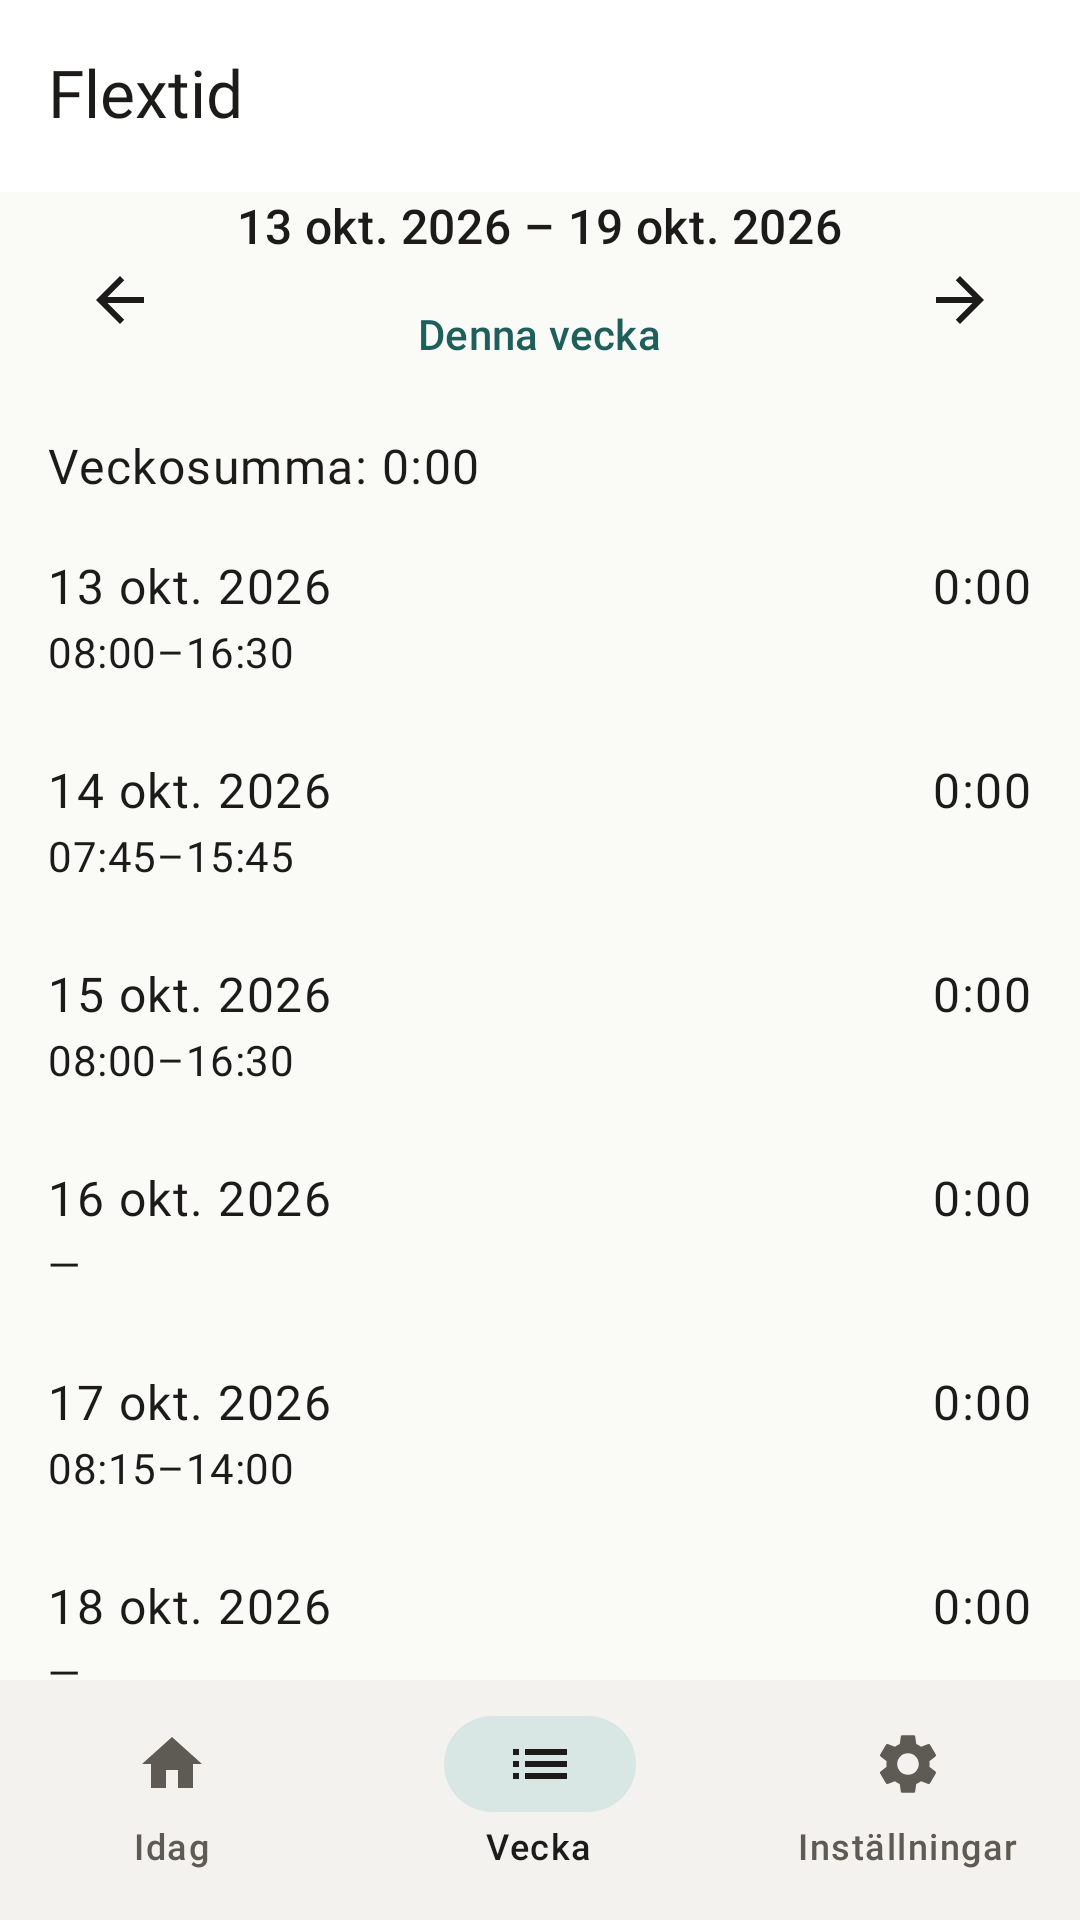
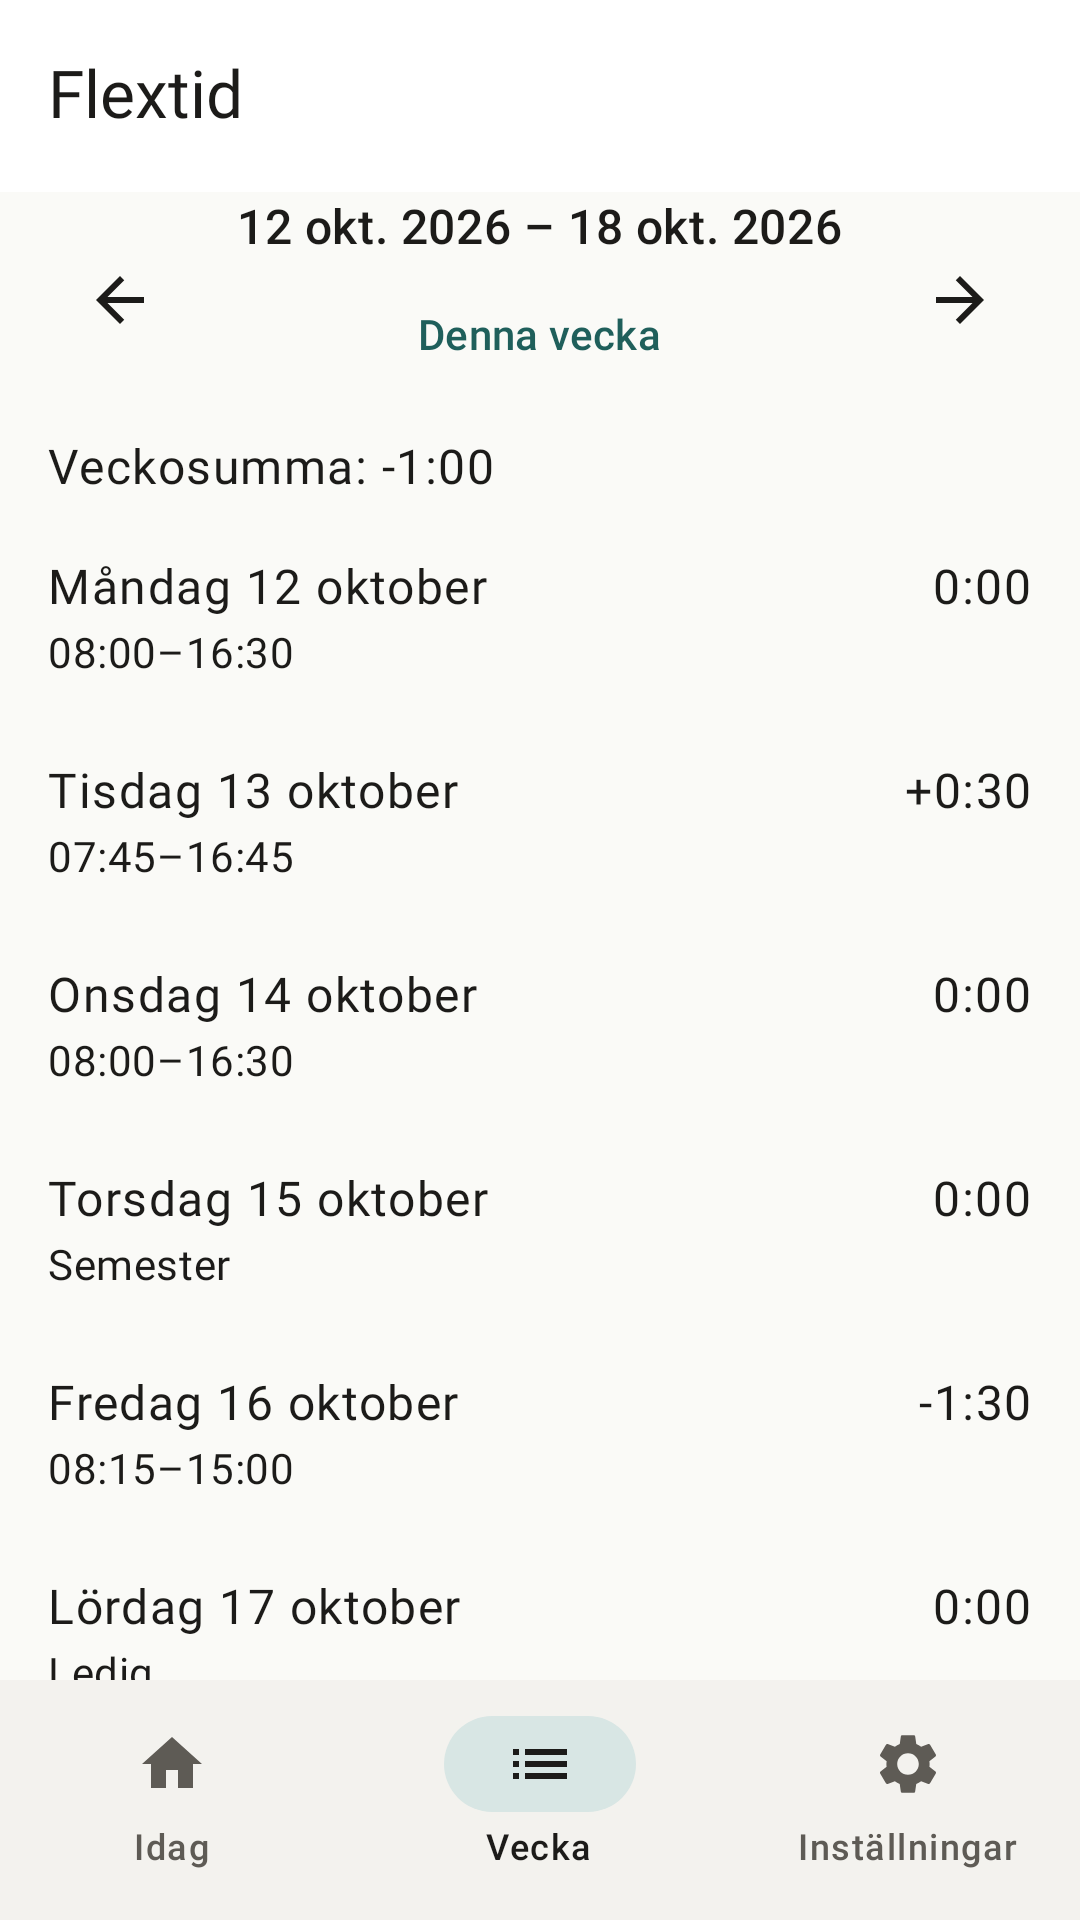
Flextid: butikstexter (#454)
* Flextid: butikstexter med gå hem-tid, helgdagar och semester; engelska namnet Flextime i policyn

Claude-Session: https://claude.ai/code/session_01CF85d1bdEzex3APXLfSv3H

* Flextid: funktionsgrafik med rubrik och tre punkter

Claude-Session: https://claude.ai/code/session_01CF85d1bdEzex3APXLfSv3H

* Omgenererade butiksskärmbilder för flextid (workflow Skärmbilder)

* Flextid: veckovyn visar veckodag, och skärmbilden visar en riktig vecka med utfall

Claude-Session: https://claude.ai/code/session_01CF85d1bdEzex3APXLfSv3H

* Omgenererade butiksskärmbilder för flextid (workflow Skärmbilder)

* Flextid: veckovyn visar Semester, Ledig, Sjuk eller Helgdag på dagar utan tider

Claude-Session: https://claude.ai/code/session_01CF85d1bdEzex3APXLfSv3H

* Omgenererade butiksskärmbilder för flextid (workflow Skärmbilder)

---------

diff --git a/flextid/src/test/kotlin/se/tmconnect/flextid/butik/ButikSkarmbilderTest.kt b/flextid/src/test/kotlin/se/tmconnect/flextid/butik/ButikSkarmbilderTest.kt
@@ -56,6 +56,9 @@ import se.tmconnect.flextid.regler.SemesterAr
 import se.tmconnect.flextid.regler.SemesterSammanfattning
 import se.tmconnect.flextid.data.Installning
 import se.tmconnect.flextid.regler.DagTyp
+import se.tmconnect.flextid.regler.dagensUtfall
+import se.tmconnect.flextid.regler.arbetadeMinuter
+import se.tmconnect.flextid.regler.ARBETSDAGAR_MANDAG_FREDAG
 import se.tmconnect.flextid.ui.DagFormularTillstand
 import se.tmconnect.flextid.ui.FlextidFlik
 import se.tmconnect.flextid.ui.IdagInnehall
@@ -71,7 +74,7 @@ import java.time.YearMonth
 
 private val noOp: () -> Unit = {}
 private val idag = LocalDate.of(2026, 10, 15)
-private val veckaAnkar = LocalDate.of(2026, 10, 13)
+private val veckaAnkar = LocalDate.of(2026, 10, 12)
 
 class ButikRoboActivity : ComponentActivity()
 
@@ -191,15 +194,23 @@ abstract class ButikSkarmbilderBas {
                     Column(modifier = Modifier.padding(horizontal = 64.dp)) {
                         Text(
                             text = stringResource(R.string.app_name),
-                            style = MaterialTheme.typography.displaySmall,
+                            style = MaterialTheme.typography.displayMedium,
                             color = Color.White,
                         )
                         Text(
-                            text = stringResource(R.string.pro_forklaring),
-                            style = MaterialTheme.typography.titleMedium,
-                            color = Color.White.copy(alpha = 0.92f),
-                            modifier = Modifier.padding(top = 12.dp),
+                            text = stringResource(R.string.butik_rubrik),
+                            style = MaterialTheme.typography.headlineSmall,
+                            color = Color.White,
+                            modifier = Modifier.padding(top = 8.dp, bottom = 24.dp),
                         )
+                        listOf(R.string.butik_punkt_1, R.string.butik_punkt_2, R.string.butik_punkt_3).forEach { punkt ->
+                            Text(
+                                text = "✓  " + stringResource(punkt),
+                                style = MaterialTheme.typography.titleLarge,
+                                color = Color.White.copy(alpha = 0.95f),
+                                modifier = Modifier.padding(vertical = 4.dp),
+                            )
+                        }
                     }
                 }
             }
@@ -397,13 +408,13 @@ class ButikSkarmbilderSvTest : ButikSkarmbilderBas() {
 
     override fun exempelVeckaRader(): List<VeckaDagRad> =
         listOf(
-            rad(LocalDate.of(2026, 10, 13), "08:00", "16:30", 30),
-            rad(LocalDate.of(2026, 10, 14), "07:45", "15:45", 30),
-            rad(LocalDate.of(2026, 10, 15), "08:00", "16:30", 30),
-            rad(LocalDate.of(2026, 10, 16), null, null, 0, typ = DagTyp.LEDIG),
-            rad(LocalDate.of(2026, 10, 17), "08:15", "14:00", 15),
+            rad(LocalDate.of(2026, 10, 12), "08:00", "16:30", 30),
+            rad(LocalDate.of(2026, 10, 13), "07:45", "16:45", 30),
+            rad(LocalDate.of(2026, 10, 14), "08:00", "16:30", 30),
+            rad(LocalDate.of(2026, 10, 15), null, null, 0, typ = DagTyp.SEMESTER),
+            rad(LocalDate.of(2026, 10, 16), "08:15", "15:00", 15),
+            rad(LocalDate.of(2026, 10, 17), null, null, 0, typ = DagTyp.LEDIG),
             rad(LocalDate.of(2026, 10, 18), null, null, 0, typ = DagTyp.LEDIG),
-            rad(LocalDate.of(2026, 10, 19), null, null, 0, typ = DagTyp.LEDIG),
         )
 
     override fun exempelDagFormular(): DagFormularTillstand =
@@ -438,7 +449,12 @@ class ButikSkarmbilderSvTest : ButikSkarmbilderBas() {
             } else {
                 null
             }
-        return VeckaDagRad(datum = datum, dag = dag, arbetadeMin = 450, utfallMin = utfall)
+        return VeckaDagRad(
+            datum = datum,
+            dag = dag,
+            arbetadeMin = dag?.let { arbetadeMinuter(it.start, it.slut, it.rastMin) } ?: 0,
+            utfallMin = dag?.let { dagensUtfall(it, 480, ARBETSDAGAR_MANDAG_FREDAG) } ?: utfall,
+        )
     }
 }
 
@@ -454,13 +470,13 @@ class ButikSkarmbilderEnTest : ButikSkarmbilderBas() {
 
     override fun exempelVeckaRader(): List<VeckaDagRad> =
         listOf(
-            rad(LocalDate.of(2026, 10, 13), "08:00", "16:30", 30),
-            rad(LocalDate.of(2026, 10, 14), "07:45", "15:45", 30),
-            rad(LocalDate.of(2026, 10, 15), "08:00", "16:30", 30),
-            rad(LocalDate.of(2026, 10, 16), null, null, 0, typ = DagTyp.LEDIG),
-            rad(LocalDate.of(2026, 10, 17), "08:15", "14:00", 15),
+            rad(LocalDate.of(2026, 10, 12), "08:00", "16:30", 30),
+            rad(LocalDate.of(2026, 10, 13), "07:45", "16:45", 30),
+            rad(LocalDate.of(2026, 10, 14), "08:00", "16:30", 30),
+            rad(LocalDate.of(2026, 10, 15), null, null, 0, typ = DagTyp.SEMESTER),
+            rad(LocalDate.of(2026, 10, 16), "08:15", "15:00", 15),
+            rad(LocalDate.of(2026, 10, 17), null, null, 0, typ = DagTyp.LEDIG),
             rad(LocalDate.of(2026, 10, 18), null, null, 0, typ = DagTyp.LEDIG),
-            rad(LocalDate.of(2026, 10, 19), null, null, 0, typ = DagTyp.LEDIG),
         )
 
     override fun exempelDagFormular(): DagFormularTillstand =
@@ -495,7 +511,12 @@ class ButikSkarmbilderEnTest : ButikSkarmbilderBas() {
             } else {
                 null
             }
-        return VeckaDagRad(datum = datum, dag = dag, arbetadeMin = 450, utfallMin = utfall)
+        return VeckaDagRad(
+            datum = datum,
+            dag = dag,
+            arbetadeMin = dag?.let { arbetadeMinuter(it.start, it.slut, it.rastMin) } ?: 0,
+            utfallMin = dag?.let { dagensUtfall(it, 480, ARBETSDAGAR_MANDAG_FREDAG) } ?: utfall,
+        )
     }
 }
 

diff --git a/flextid/src/main/kotlin/se/tmconnect/flextid/ui/FlextidSkarmar.kt b/flextid/src/main/kotlin/se/tmconnect/flextid/ui/FlextidSkarmar.kt
@@ -393,7 +393,7 @@ private fun VeckaRad(rad: VeckaDagRad, locale: Locale, onClick: () -> Unit) {
         horizontalArrangement = Arrangement.SpaceBetween,
     ) {
         Column {
-            Text(formateraDatum(rad.datum, locale), style = MaterialTheme.typography.bodyLarge)
+            Text(formateraVeckodagOchDatum(rad.datum, locale), style = MaterialTheme.typography.bodyLarge)
             helgdagPa(rad.datum, medAftnar = true)?.let { helg ->
                 Text(
                     text = helgdagNamn(helg),
@@ -406,6 +406,7 @@ private fun VeckaRad(rad: VeckaDagRad, locale: Locale, onClick: () -> Unit) {
                     rad.dag?.start != null && rad.dag.slut != null ->
                         "${formateraTid(rad.dag.start, locale)}–${formateraTid(rad.dag.slut, locale)}"
                     rad.dag?.start != null -> formateraTid(rad.dag.start, locale)
+                    rad.dag != null && rad.dag.typ != DagTyp.ARBETE -> stringResource(dagTypStringRes(rad.dag.typ))
                     else -> "—"
                 }
             Text(tidText, style = MaterialTheme.typography.bodyMedium)
@@ -853,3 +854,8 @@ private fun temaStringRes(lage: TemaLage): Int =
         TemaLage.LJUST -> R.string.tema_ljust
         TemaLage.MORKT -> R.string.tema_morkt
     }
+
+/** "Måndag 12 oktober" eller "Monday 12 October": veckodagen är det man letar efter i veckovyn. */
+internal fun formateraVeckodagOchDatum(datum: LocalDate, locale: Locale): String =
+    datum.format(java.time.format.DateTimeFormatter.ofPattern("EEEE d MMMM", locale))
+        .replaceFirstChar { if (it.isLowerCase()) it.titlecase(locale) else it.toString() }

diff --git a/flextid/src/test/kotlin/se/tmconnect/flextid/ui/VeckodagFormatTest.kt b/flextid/src/test/kotlin/se/tmconnect/flextid/ui/VeckodagFormatTest.kt
@@ -1,0 +1,15 @@
+package se.tmconnect.flextid.ui
+
+import java.time.LocalDate
+import java.util.Locale
+import org.junit.Assert.assertEquals
+import org.junit.Test
+
+class VeckodagFormatTest {
+    @Test
+    fun svenskaOchEngelska() {
+        val d = LocalDate.of(2026, 10, 12)
+        assertEquals("Måndag 12 oktober", formateraVeckodagOchDatum(d, Locale.forLanguageTag("sv-SE")))
+        assertEquals("Monday 12 October", formateraVeckodagOchDatum(d, Locale.UK))
+    }
+}

diff --git a/flextid/butik/integritetspolicy-en.md b/flextid/butik/integritetspolicy-en.md
@@ -1,12 +1,12 @@
-# Privacy policy — Flextid (Flex Time)
+# Privacy policy — Flextime (Flextid)
 
 Last updated: 2026-10-21
 
-Flextid is developed by TM Connect. Contact: [contact address added at publication].
+Flextime is developed by TM Connect. Contact: [contact address added at publication].
 
 ## Short version
 
-Everything you save in Flextid stays on your phone. We have no server, no account, no ads and no analytics. The app does not request internet permission and therefore cannot send anything by itself. We do not receive, store or share any personal data. The app does not know where you are and does not read your location.
+Everything you save in Flextime stays on your phone. We have no server, no account, no ads and no analytics. The app does not request internet permission and therefore cannot send anything by itself. We do not receive, store or share any personal data. The app does not know where you are and does not read your location.
 
 ## What is stored, and where
 
